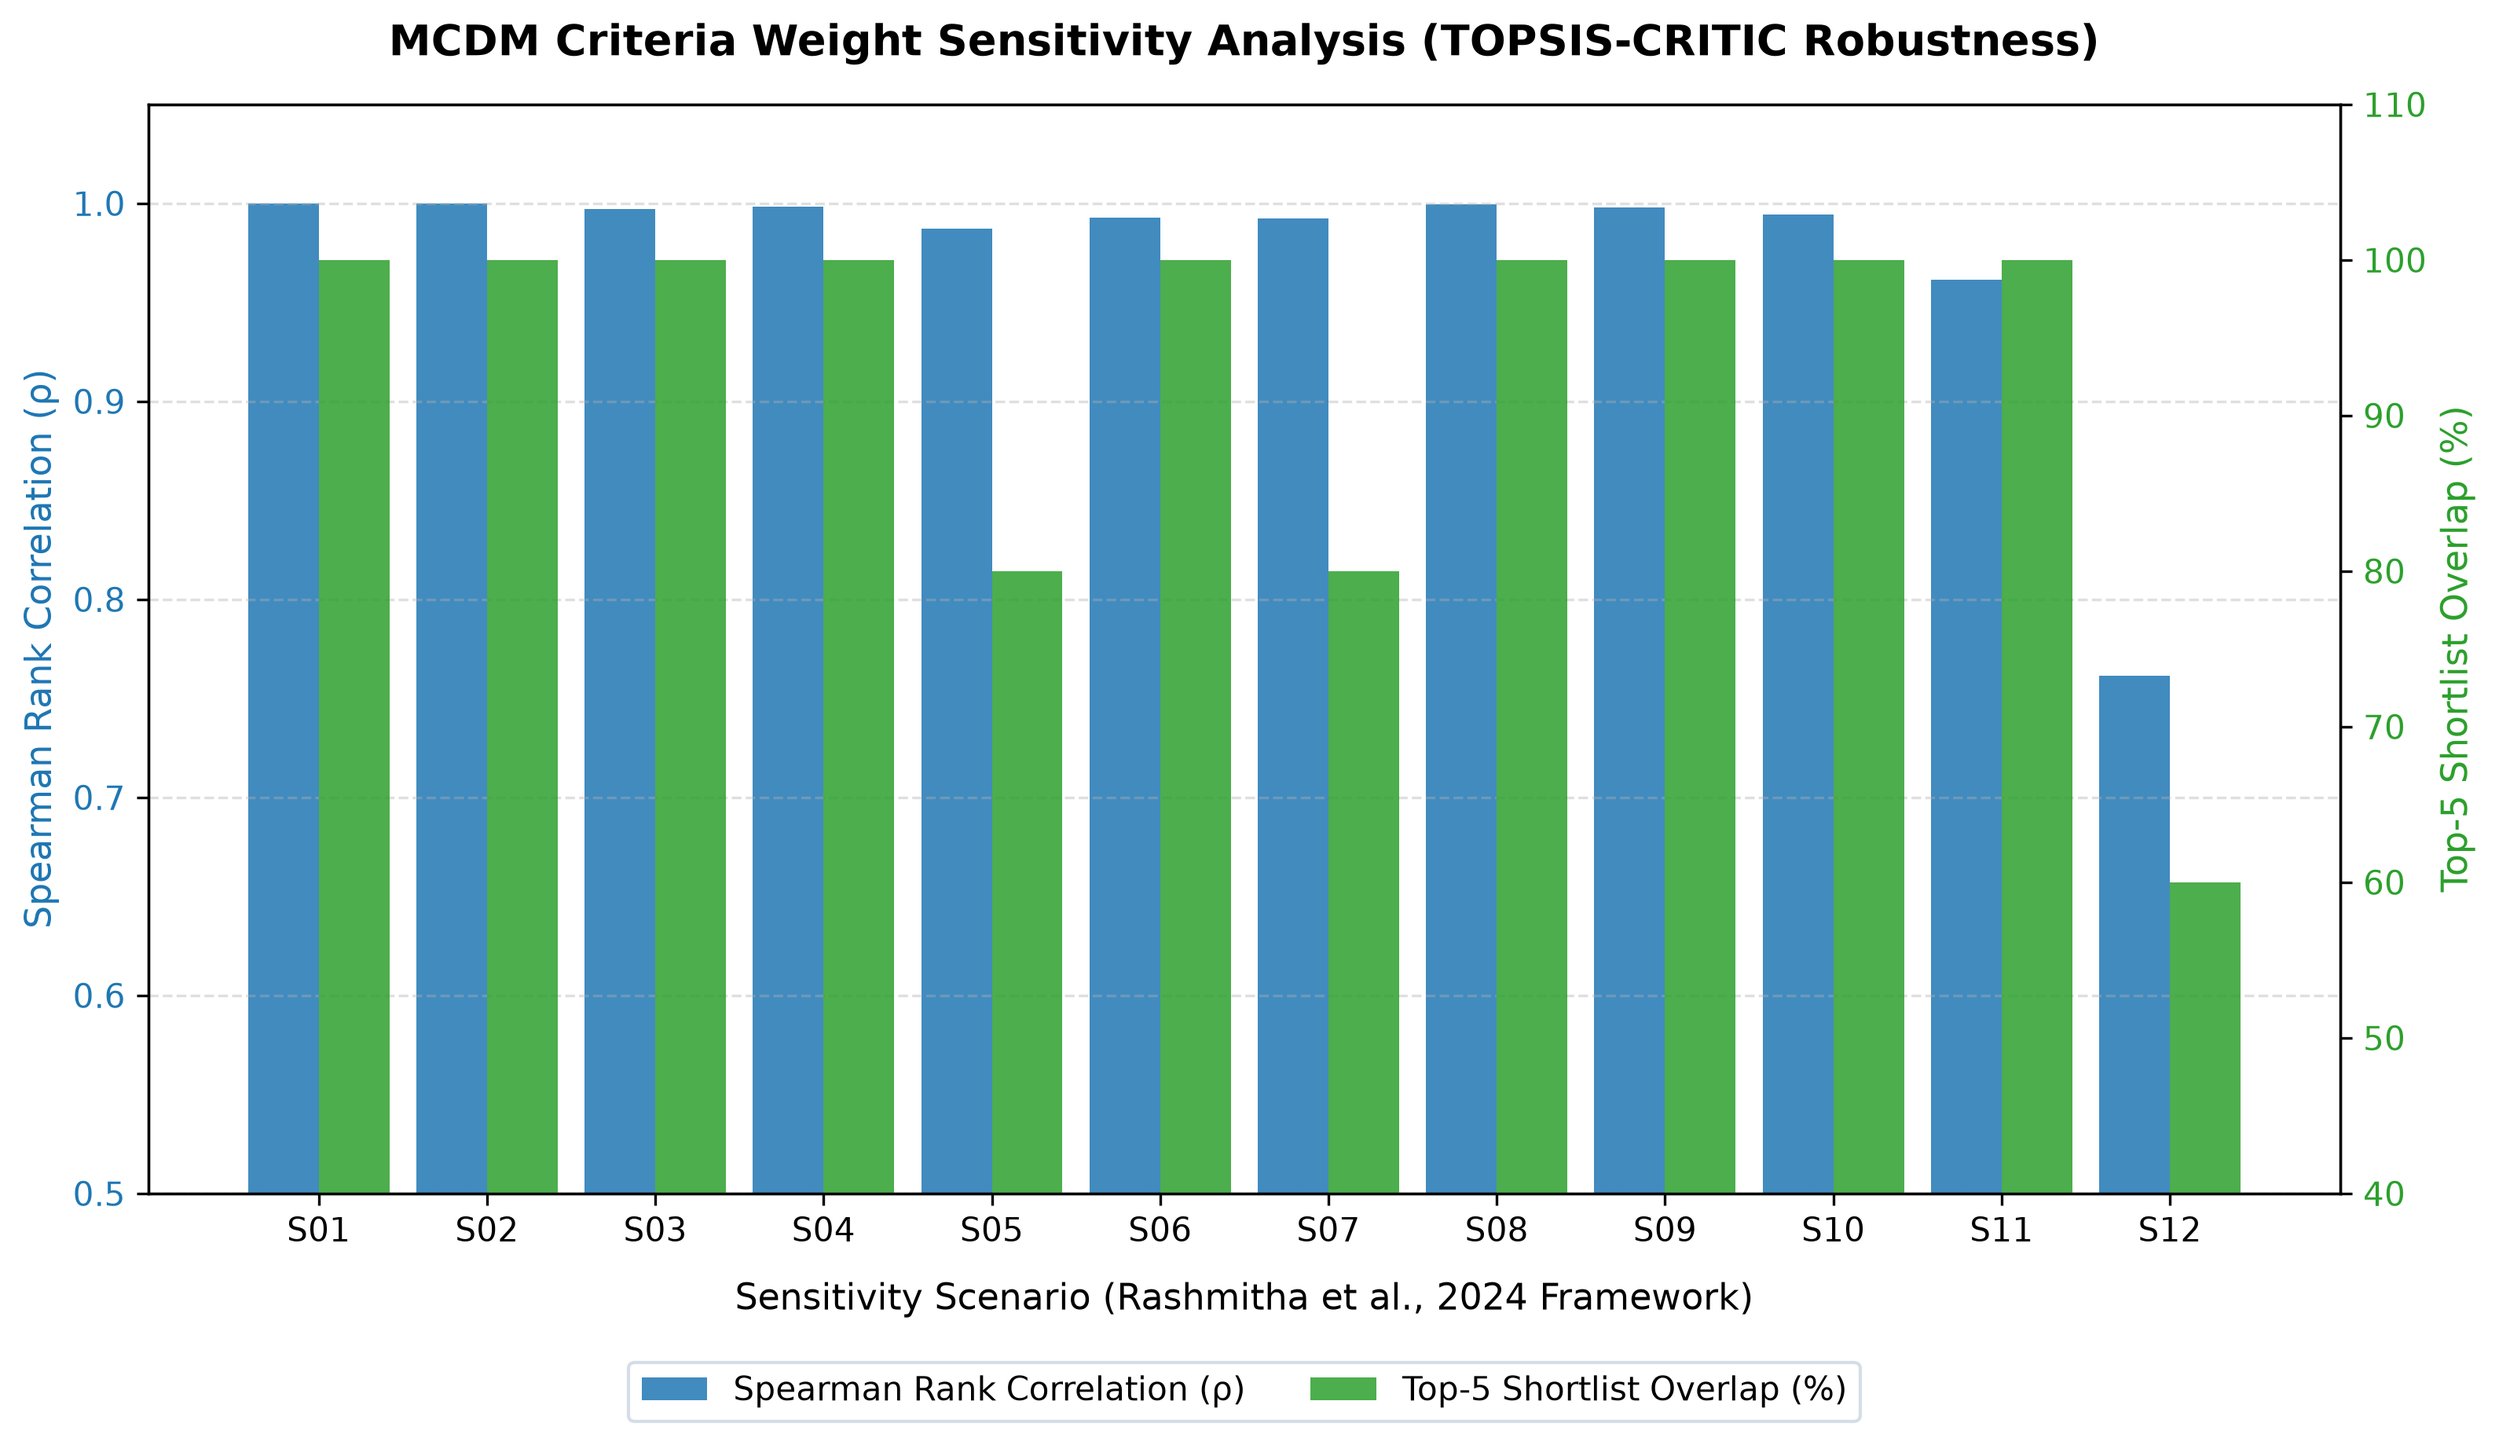
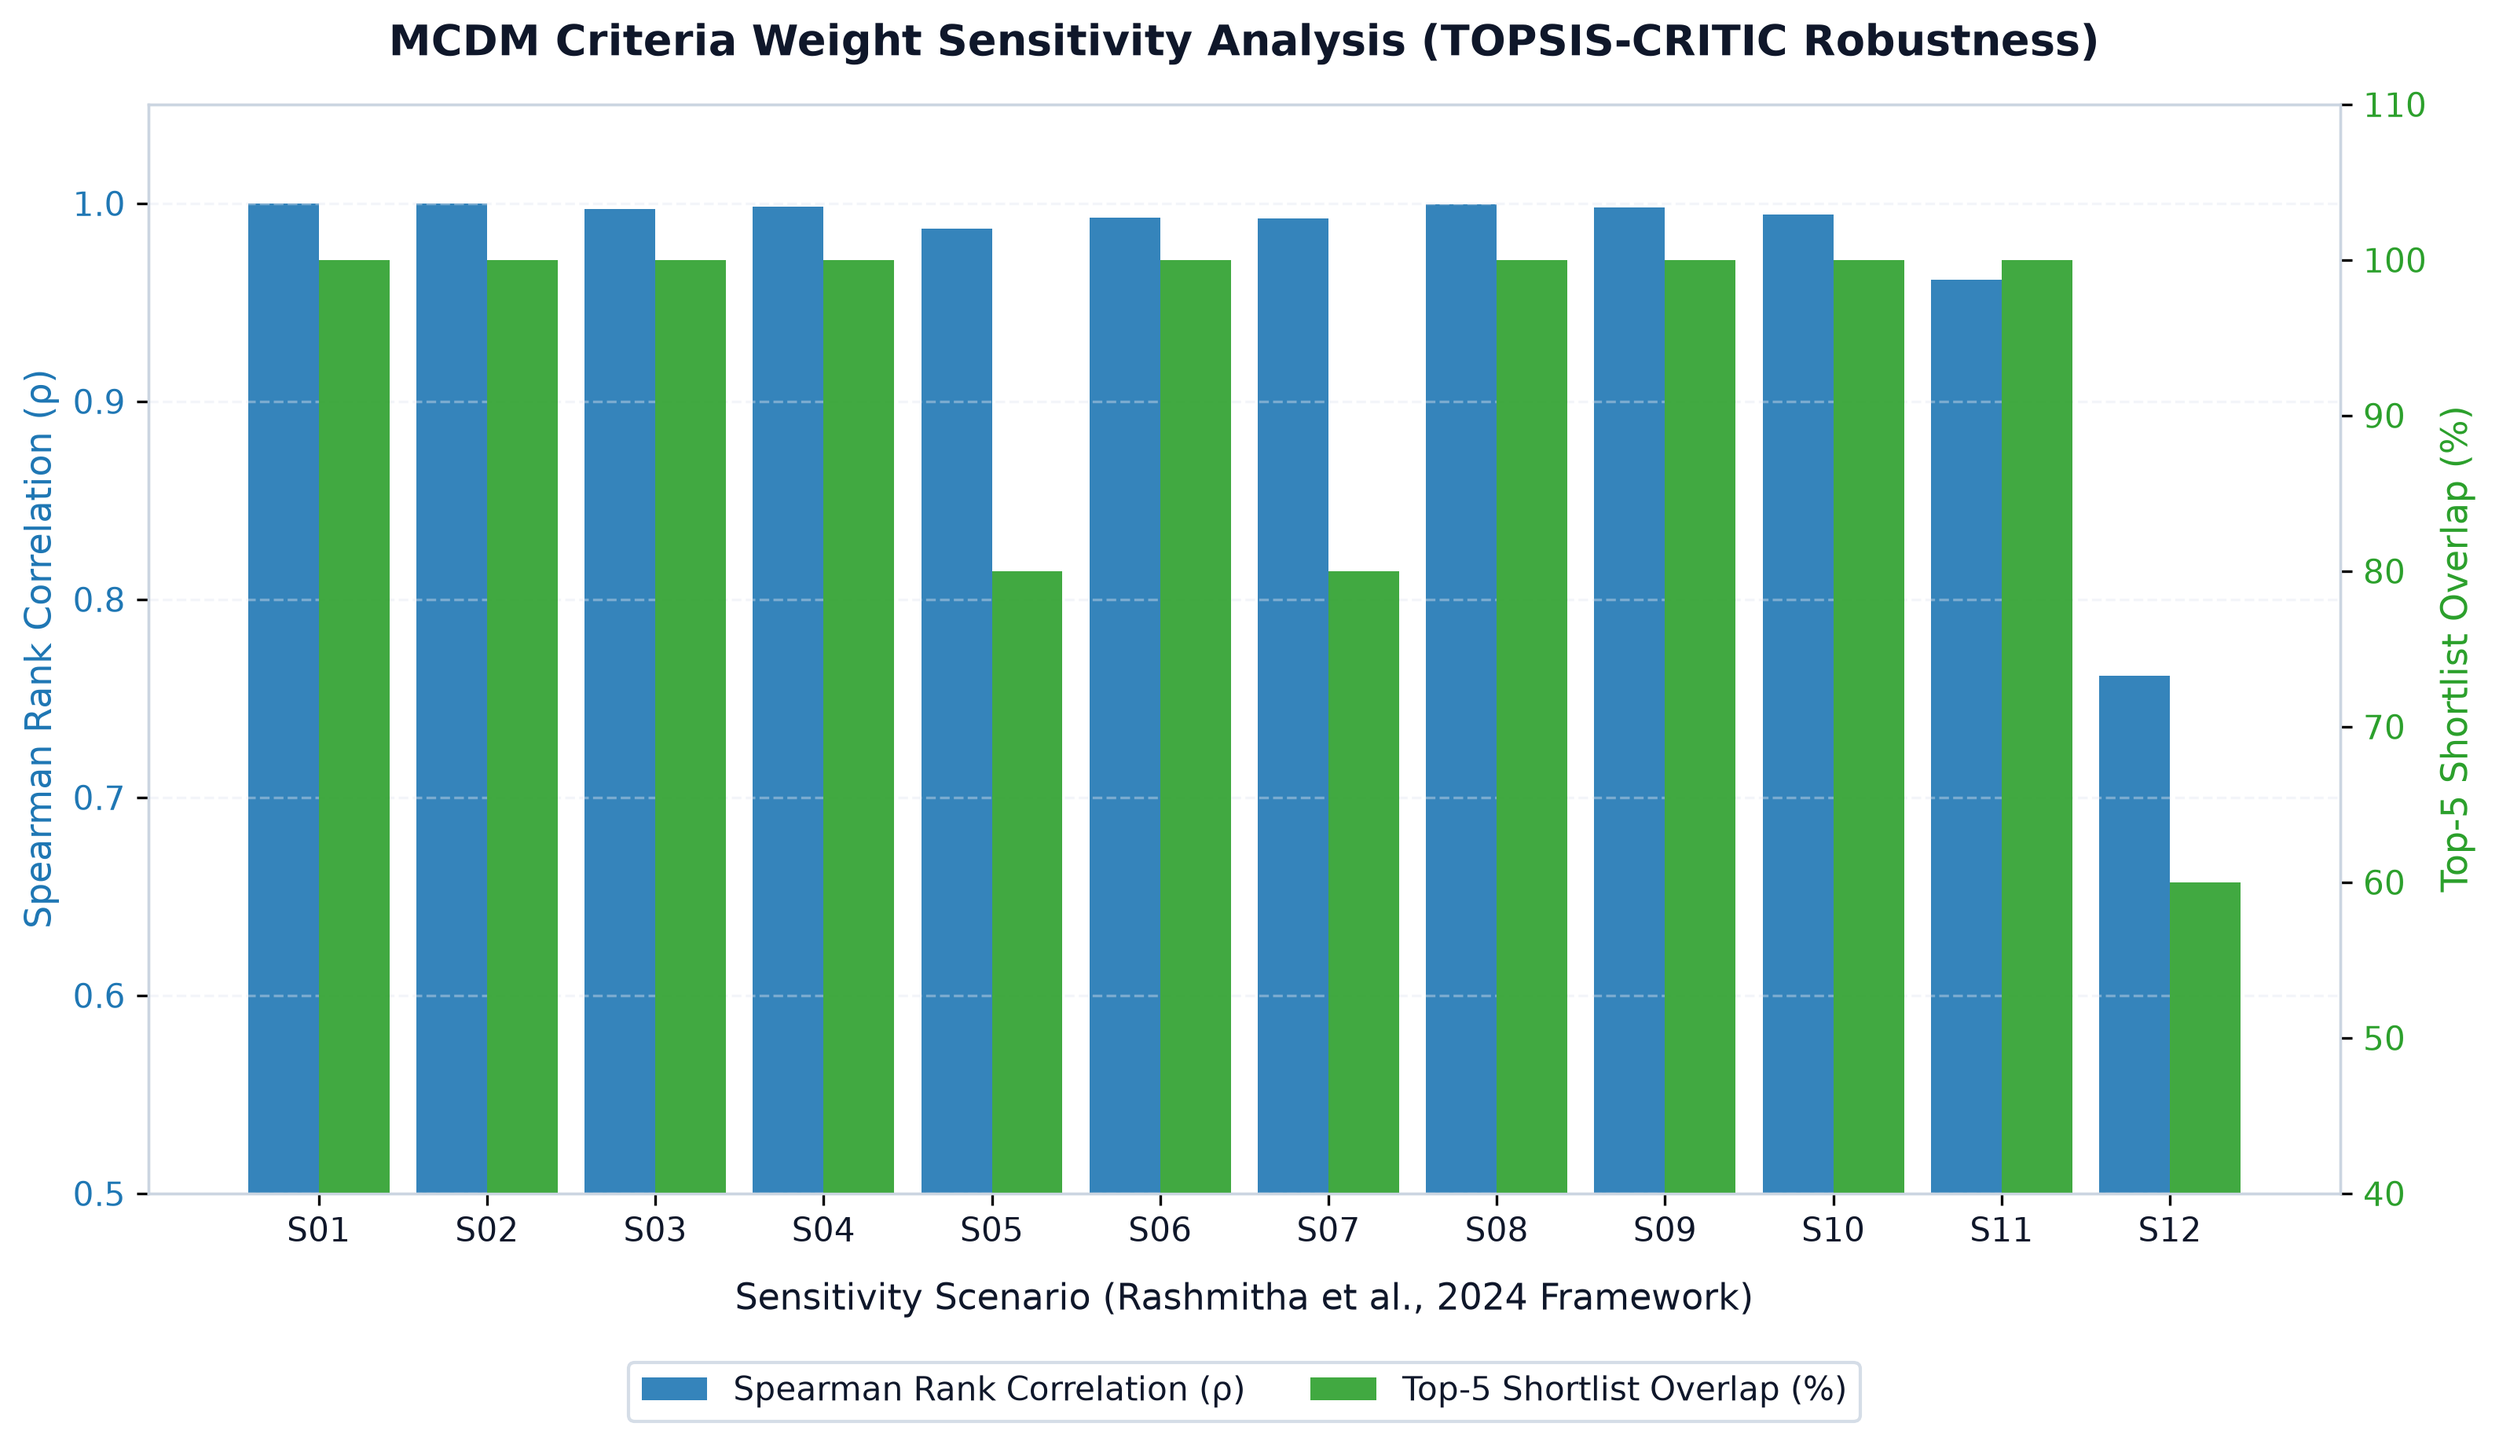
feat(figures): generate and dynamically render separate light and dark mode figures for SHAP and Sensitivity Analysis

diff --git a/src/integration/sensitivity_analysis.py b/src/integration/sensitivity_analysis.py
@@ -185,58 +185,78 @@ def run_mcdm_criteria_sensitivity(
 def generate_mcdm_sensitivity_figure(
     sensitivity_df: pd.DataFrame,
     output_figure_path: Path = Path("outputs/figures/mcdm_sensitivity_analysis.png"),
+    is_dark: bool = False,
 ) -> None:
     """Render publication-grade visualization of MCDM sensitivity analysis across 12 scenarios.
 
     Args:
         sensitivity_df: DataFrame generated by run_mcdm_criteria_sensitivity.
         output_figure_path: Destination path for rendered PNG figure.
+        is_dark: If True, renders with dark theme styling (#161B22 background).
     """
     output_figure_path = Path(output_figure_path)
     output_figure_path.parent.mkdir(parents=True, exist_ok=True)
 
-    fig, ax1 = plt.subplots(figsize=(12, 6))
+    bg_color = "#161B22" if is_dark else "#FFFFFF"
+    text_color = "#FAFAFA" if is_dark else "#0F172A"
+    grid_color = "#30363D" if is_dark else "#E2E8F0"
+    border_color = "#30363D" if is_dark else "#CBD5E1"
+    color1 = "#38BDF8" if is_dark else "#1f77b4"
+    color2 = "#4ADE80" if is_dark else "#2ca02c"
+
+    if is_dark:
+        plt.style.use("dark_background")
+    else:
+        plt.style.use("default")
+
+    fig, ax1 = plt.subplots(figsize=(12, 6), facecolor=bg_color)
+    ax1.set_facecolor(bg_color)
 
     scenarios = sensitivity_df["scenario_id"]
     x = np.arange(len(scenarios))
     width = 0.42
 
     # Primary axis: Spearman rho
-    color1 = "#1f77b4"
-    bars1 = ax1.bar(x - width / 2, sensitivity_df["spearman_rho"], width, label="Spearman Rank Correlation (ρ)", color=color1, alpha=0.85)
-    ax1.set_xlabel("Sensitivity Scenario (Rashmitha et al., 2024 Framework)", fontsize=11, labelpad=10)
+    bars1 = ax1.bar(x - width / 2, sensitivity_df["spearman_rho"], width, label="Spearman Rank Correlation (ρ)", color=color1, alpha=0.9)
+    ax1.set_xlabel("Sensitivity Scenario (Rashmitha et al., 2024 Framework)", fontsize=11, labelpad=10, color=text_color)
     ax1.set_ylabel("Spearman Rank Correlation (ρ)", fontsize=11, color=color1)
     ax1.tick_params(axis="y", labelcolor=color1)
+    ax1.tick_params(axis="x", labelcolor=text_color)
     ax1.set_ylim(0.5, 1.05)
     ax1.set_xticks(x)
     ax1.set_xticklabels(scenarios, fontsize=10)
-    ax1.grid(axis="y", linestyle="--", alpha=0.4)
+    ax1.grid(axis="y", linestyle="--", alpha=0.4, color=grid_color)
+    for spine in ax1.spines.values():
+        spine.set_color(border_color)
 
     # Secondary axis: Top-5 Overlap %
     ax2 = ax1.twinx()
-    color2 = "#2ca02c"
-    bars2 = ax2.bar(x + width / 2, sensitivity_df["top5_overlap_pct"], width, label="Top-5 Shortlist Overlap (%)", color=color2, alpha=0.85)
+    bars2 = ax2.bar(x + width / 2, sensitivity_df["top5_overlap_pct"], width, label="Top-5 Shortlist Overlap (%)", color=color2, alpha=0.9)
     ax2.set_ylabel("Top-5 Shortlist Overlap (%)", fontsize=11, color=color2)
     ax2.tick_params(axis="y", labelcolor=color2)
     ax2.set_ylim(40, 110)
+    for spine in ax2.spines.values():
+        spine.set_color(border_color)
 
     # Title & Combined Legend (placed cleanly below x-axis to prevent overlapping data bars)
-    ax1.set_title("MCDM Criteria Weight Sensitivity Analysis (TOPSIS-CRITIC Robustness)", fontsize=13, pad=15, fontweight="bold")
+    ax1.set_title("MCDM Criteria Weight Sensitivity Analysis (TOPSIS-CRITIC Robustness)", fontsize=13, pad=15, fontweight="bold", color=text_color)
     
     lines1, labels1 = ax1.get_legend_handles_labels()
     lines2, labels2 = ax2.get_legend_handles_labels()
-    ax1.legend(
+    legend = ax1.legend(
         lines1 + lines2,
         labels1 + labels2,
         loc="upper center",
         bbox_to_anchor=(0.5, -0.14),
         ncol=2,
         frameon=True,
-        facecolor="white",
-        edgecolor="#cbd5e1",
+        facecolor=bg_color,
+        edgecolor=border_color,
         fontsize=10,
     )
+    for text in legend.get_texts():
+        text.set_color(text_color)
 
-    plt.savefig(output_figure_path, dpi=300, bbox_inches="tight")
+    plt.savefig(output_figure_path, dpi=300, bbox_inches="tight", facecolor=bg_color, edgecolor="none")
     plt.close(fig)
 

diff --git a/src/ml/explain.py b/src/ml/explain.py
@@ -69,6 +69,7 @@ def generate_shap_summary_plot(
     shap_values: Any,
     X_sample: pd.DataFrame,
     output_figure_path: Path,
+    is_dark: bool = False,
 ) -> None:
     """Generate and save SHAP beeswarm / summary plot illustrating feature impact and directionality.
 
@@ -76,20 +77,42 @@ def generate_shap_summary_plot(
         shap_values: Computed SHAP Explanation object.
         X_sample: Feature matrix corresponding to shap_values.
         output_figure_path: Destination file path for the output figure.
+        is_dark: If True, renders with dark theme styling (#161B22 background).
     """
     output_figure_path = Path(output_figure_path)
     output_figure_path.parent.mkdir(parents=True, exist_ok=True)
 
-    plt.figure(figsize=(9, 6))
+    bg_color = "#161B22" if is_dark else "#FFFFFF"
+    text_color = "#FAFAFA" if is_dark else "#0F172A"
+
+    if is_dark:
+        plt.style.use("dark_background")
+    else:
+        plt.style.use("default")
+
+    fig = plt.figure(figsize=(9, 6), facecolor=bg_color)
+    ax = plt.gca()
+    ax.set_facecolor(bg_color)
+
     if hasattr(shap_values, "values"):
         shap.summary_plot(shap_values.values, X_sample, show=False)
     else:
         shap.summary_plot(shap_values, X_sample, show=False)
 
-    plt.title("SHAP Global Feature Importance (ACN-Data Demand Regressor)", fontsize=12, pad=15)
+    plt.title("SHAP Global Feature Importance (ACN-Data Demand Regressor)", fontsize=12, pad=15, color=text_color)
+    if is_dark:
+        fig.patch.set_facecolor(bg_color)
+        for a in fig.get_axes():
+            a.set_facecolor(bg_color)
+            a.tick_params(colors=text_color)
+            a.xaxis.label.set_color(text_color)
+            a.yaxis.label.set_color(text_color)
+            for spine in a.spines.values():
+                spine.set_color("#30363D")
+
     plt.tight_layout()
-    plt.savefig(output_figure_path, dpi=300, bbox_inches="tight")
-    plt.close()
+    plt.savefig(output_figure_path, dpi=300, bbox_inches="tight", facecolor=bg_color, edgecolor="none")
+    plt.close(fig)
 
 
 def generate_shap_artifacts(

diff --git a/dashboard/pages/4_Demand_and_SHAP.py b/dashboard/pages/4_Demand_and_SHAP.py
@@ -118,9 +118,13 @@ with tab_full:
     col_sh1, col_sh2 = st.columns([1.5, 1])
     with col_sh1:
         try:
-            img_path = get_figure_path("shap_summary.png")
+            is_dark = st.session_state.get("theme") == "dark"
+            fig_name = "shap_summary_dark.png" if is_dark else "shap_summary.png"
+            img_path = get_figure_path(fig_name)
+            card_bg = "#161B22" if is_dark else "#FFFFFF"
+            card_border = "#30363D" if is_dark else "#E2E8F0"
             st.markdown(
-                '<div style="background-color:#FFFFFF; padding:12px; border-radius:8px; border:1px solid #E2E8F0; margin-bottom:12px;">',
+                f'<div style="background-color:{card_bg}; padding:12px; border-radius:8px; border:1px solid {card_border}; margin-bottom:12px;">',
                 unsafe_allow_html=True,
             )
             st.image(Image.open(img_path), caption="SHAP Summary Plot (Full-Feature ACN Model)", width="stretch")
@@ -147,9 +151,13 @@ with tab_trans:
     col_tr1, col_tr2 = st.columns([1.5, 1])
     with col_tr1:
         try:
-            img_path = get_figure_path("shap_summary_transferable.png")
+            is_dark = st.session_state.get("theme") == "dark"
+            fig_name = "shap_summary_transferable_dark.png" if is_dark else "shap_summary_transferable.png"
+            img_path = get_figure_path(fig_name)
+            card_bg = "#161B22" if is_dark else "#FFFFFF"
+            card_border = "#30363D" if is_dark else "#E2E8F0"
             st.markdown(
-                '<div style="background-color:#FFFFFF; padding:12px; border-radius:8px; border:1px solid #E2E8F0; margin-bottom:12px;">',
+                f'<div style="background-color:{card_bg}; padding:12px; border-radius:8px; border:1px solid {card_border}; margin-bottom:12px;">',
                 unsafe_allow_html=True,
             )
             st.image(Image.open(img_path), caption="SHAP Summary Plot (Transferable Temporal Model)", width="stretch")

diff --git a/dashboard/pages/5_Sensitivity_Analysis.py b/dashboard/pages/5_Sensitivity_Analysis.py
@@ -113,12 +113,21 @@ st.markdown("---")
 # Visual Figure
 st.subheader(":material/insights: Multi-Scenario Sensitivity Visualizations")
 try:
-    fig_path = get_figure_path("mcdm_sensitivity_analysis_full_v2.png")
+    is_dark = st.session_state.get("theme") == "dark"
+    fig_name = "mcdm_sensitivity_analysis_full_v2_dark.png" if is_dark else "mcdm_sensitivity_analysis_full_v2.png"
+    fig_path = get_figure_path(fig_name)
+    card_bg = "#161B22" if is_dark else "#FFFFFF"
+    card_border = "#30363D" if is_dark else "#E2E8F0"
+    st.markdown(
+        f'<div style="background-color:{card_bg}; padding:12px; border-radius:8px; border:1px solid {card_border}; margin-bottom:12px;">',
+        unsafe_allow_html=True,
+    )
     st.image(
         Image.open(fig_path),
-        caption="12-Scenario Sensitivity Analysis Curves: Spearman ρ, Kendall τ, and Shortlist Overlap (Citywide Mode)",
+        caption="12-Scenario Sensitivity Analysis Curves: Spearman ρ and Shortlist Overlap (Citywide Equal-Scrutiny Mode)",
         width="stretch",
     )
+    st.markdown("</div>", unsafe_allow_html=True)
 except Exception as e:
     st.warning(f"Sensitivity figure not loaded: {e}")
 
